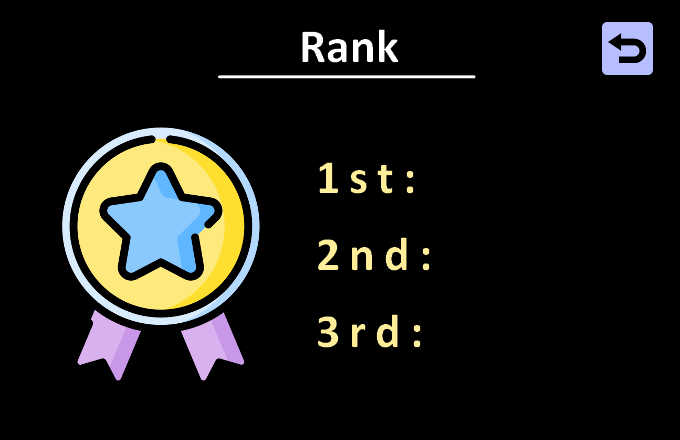
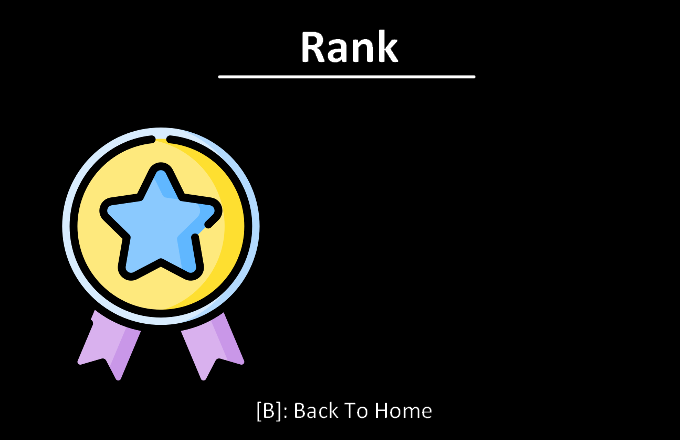
update file

diff --git a/Tetris.py b/Tetris.py
@@ -14,21 +14,25 @@ class Tetris:
         self.COLOR = {
             "black" : [0, 0, 0],
             "white" : [255, 255, 255],
-            "blue" : [255, 41, 41],
-            "red" : [179, 179, 255],
-            "yellow" : [153, 238, 255],
-            "green" : [217, 217, 180],
-            "purple" : [255, 179, 219],
+            "blue" : [255, 148, 41],
+            "red" : [0, 0, 255],
+            "yellow" : [5, 209, 255],
+            "green" : [119, 202, 2],
+            "purple" : [255, 0, 136],
+            "pink" : [189, 122, 255],
         }
         self.BOARD = np.uint8(np.zeros([20, 10, 3]))
         self.COMMANDS = {
             "rotate" : [ord("w"), ord("W")],
+            "up" : [ord("w"), ord("W")],
             "hard drop" : [32],
+            "space" : [32],
             "left" : [ord("a"), ord("A")],
             "right" : [ord("d"), ord("D")],
             "down" : [ord("s"), ord("S")],
             "hold" : [ord("q"), ord("Q")],
-            "quit" : [27]
+            "quit" : [27],
+            "back" : [ord("b"), ord("B")],
         }
         self.ALL_PIECES = ["O", "I", "S", "Z", "L", "J", "T"]
 
@@ -67,65 +71,54 @@ class Tetris:
     def getPieceInfo(self, pieceCode):
         if pieceCode == "I":
             coords = np.array([[0, 3], [0, 4], [0, 5], [0, 6]])
-            color = [255, 155, 15]
+            color = self.COLOR["white"]
         elif pieceCode == "T":
             coords = np.array([[1, 3], [1, 4], [1, 5], [0, 4]])
-            color = [138, 41, 175]
+            color = self.COLOR["purple"]
         elif pieceCode == "L":
             coords = np.array([[1, 3], [1, 4], [1, 5], [0, 5]])
-            color = [2, 91, 227]
+            color = self.COLOR["pink"]
         elif pieceCode == "J":
             coords = np.array([[1, 3], [1, 4], [1, 5], [0, 3]])
-            color = [198, 65, 33]
+            color = self.COLOR["blue"]
         elif pieceCode == "S":
             coords = np.array([[1, 5], [1, 4], [0, 3], [0, 4]])
-            color = [55, 15, 215]
+            color = self.COLOR["green"]
         elif pieceCode == "Z":
             coords = np.array([[1, 3], [1, 4], [0, 4], [0, 5]])
-            color = [1, 177, 89]
+            color = self.COLOR["red"]
         else:
             coords = np.array([[0, 4], [0, 5], [1, 4], [1, 5]])
-            color = [2, 159, 227]
+            color = self.COLOR["yellow"]
 
         return coords, color
 
     def areMatched(self, key, command):
         return key in self.COMMANDS[command]
 
-    def chooseLevel(self):
-        levelPage = cv2.imread("level.png")
-        cv2.imshow(self.WINDOW_NAME, levelPage)
-        cv2.waitKey()
+    def changeOption(self):
+        optionPage = cv2.imread("option-level.png")
+        cv2.imshow(self.WINDOW_NAME, optionPage)
+        key = cv2.waitKey()
+        while(key != self.COMMANDS["back"]):
+            key = cv2.waitKey()
+        return "back"
 
     def showRank(self):
         rankPage = cv2.imread("rank-begin.png")
         cv2.imshow(self.WINDOW_NAME, rankPage)
-        cv2.waitKey()
+        key = cv2.waitKey()
+        while(key != self.COMMANDS["back"]):
+            key = cv2.waitKey()
+        return "back"
 
     def showRule(self):
         rulePage = cv2.imread("rule.png")
         cv2.imshow(self.WINDOW_NAME, rulePage)
-        cv2.waitKey()
-
-    def startGame(self):
-        homePage = np.zeros((440, 680, 3), np.uint8)
-        font = cv2.FONT_HERSHEY_DUPLEX
-        cv2.putText(homePage, "TETRIS", (self.CENTER_POINT_X-150, self.CENTER_POINT_Y-130), font, 3, self.COLOR["white"], 10)
-
-        homePage[self.CENTER_POINT_Y-100:self.CENTER_POINT_Y-40, self.CENTER_POINT_X-100:self.CENTER_POINT_X+100] = self.COLOR["red"]
-        cv2.putText(homePage, "START", (self.CENTER_POINT_X-70, self.CENTER_POINT_Y-55), font, 1.5, self.COLOR["black"], 2)
-
-        homePage[self.CENTER_POINT_Y-20:self.CENTER_POINT_Y+40, self.CENTER_POINT_X-100:self.CENTER_POINT_X+100] = self.COLOR["purple"]
-        cv2.putText(homePage, "LEVEL", (self.CENTER_POINT_X-68, self.CENTER_POINT_Y+25), font, 1.5, self.COLOR["black"], 2)
-
-        homePage[self.CENTER_POINT_Y+60:self.CENTER_POINT_Y+120, self.CENTER_POINT_X-100:self.CENTER_POINT_X+100] = self.COLOR["green"]
-        cv2.putText(homePage, "RANK", (self.CENTER_POINT_X-62, self.CENTER_POINT_Y+105), font, 1.5, self.COLOR["black"], 2)
-
-        homePage[self.CENTER_POINT_Y+140:self.CENTER_POINT_Y+200, self.CENTER_POINT_X-100:self.CENTER_POINT_X+100] = self.COLOR["yellow"]
-        cv2.putText(homePage, "RULES", (self.CENTER_POINT_X-70, self.CENTER_POINT_Y+185), font, 1.5, self.COLOR["black"], 2)
-
-        cv2.imshow(self.WINDOW_NAME, homePage)
-        cv2.waitKey()
+        key = cv2.waitKey()
+        while(key != self.COMMANDS["back"]):
+            key = cv2.waitKey()
+        return "back"
 
     def playGame(self):
         def display(coords, color, nextPiece, heldPiece):
@@ -319,12 +312,40 @@ class Tetris:
         for idx, r in enumerate(record):
             if r["time"] == timestamp:
                 print(f"Rank: {idx+1}")
+    
+    def startGame(self):
+        homePage = cv2.imread("home.png")
+        cv2.imshow(self.WINDOW_NAME, homePage)
+        key = cv2.waitKey()
+        click = 0
+        while(key):
+            if (key == self.COMMANDS["up"]):
+                click -= 1
+                print(click)
+            elif (key == self.COMMANDS["down"]):
+                click +=1
+                print(click)
+            elif (key == self.COMMANDS["space"]):
+                print("space")
+                value = "none"
+                if(click %4 == 1):
+                    value = self.changeOption()
+                    if(value == "back"):
+                         self.startGame()
+                elif(click %4 == 2):
+                    value =  self.showRank()
+                    if(value == "back"):
+                         self.startGame()
+                elif(click %4 == 3):
+                    value =  self.showRule()
+                    if(value == "back"):
+                         self.startGame()
+                elif(click %4 == 0):
+                     self.playGame()
+        key = cv2.waitKey()
 
     def play(self):
-        self.startGame()
-        self.showRule()
-        self.showRank()
-        self.chooseLevel()
+        # self.startGame()
         self.playGame()
         self.endGame()
 
